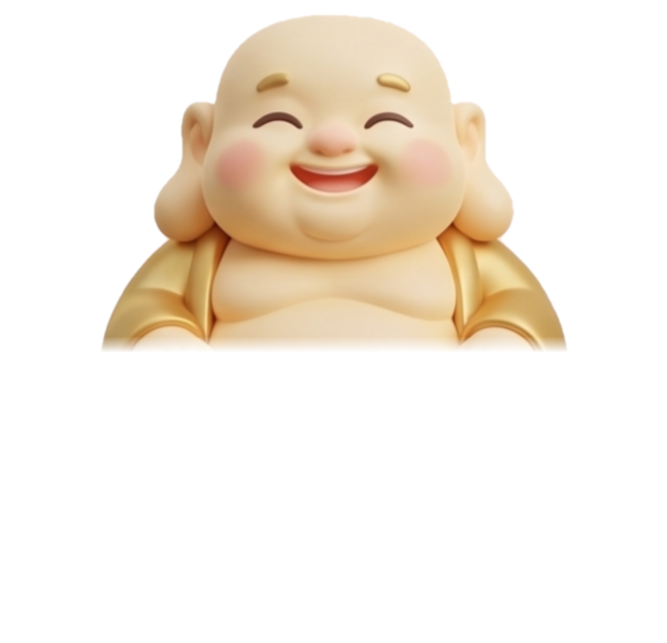
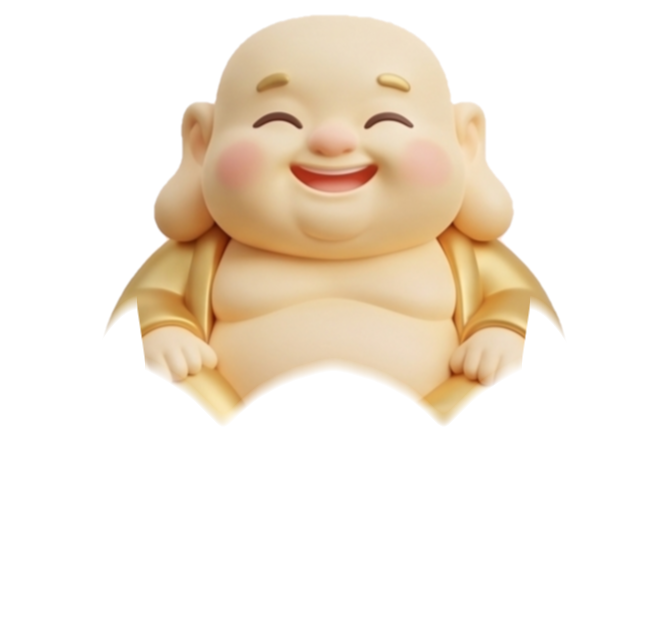
자르는 선도 꽃잎선이어야 한다 · 쌀 더 작게
형: 「포대승 저 부분 없애고 자연스럽게 해달라고」

가로 한 줄로 잘랐더니 옆구리에 **네모난 귀퉁이**가 남았다(형이 동그라미
친 자리). 그릇은 U 자인데 자르는 선만 직선이었으니 당연하다.
칸(column)마다 **그 칸의 꽃잎 꼭대기**를 찾아 그 밑으로만 지운다 —
꽃잎이 높이 선 옆구리는 많이 잘리고(어차피 꽃잎이 덮는다), 꽃잎 사이
골은 얕게 잘려 배가 그대로 보인다. 자른 선이 곧 꽃잎선이다.
톱니는 이웃 아홉 칸 평균으로 고르고, 꽃잎 속으로 10px 들어가 자른 뒤
14px 풀어 준다.

· 쌀 54 → 42px (형: 「쌀 크기 더 줄이고」)

Changed region(s): [[0.1499, 0.4666, 0.8696, 0.6843]]

diff --git a/src/app/hip.css b/src/app/hip.css
@@ -7083,7 +7083,7 @@ html[data-theme="light"] {
   /* 갈래마다 키가 다르다 — 형: 「초 크기 더 키우고, 쌀·향초는 줄이고.
      쌀 크게 확 줄여」. 실제로도 초는 길고 쌀그릇은 납작하다 */
   .hip-hall-altar .hip-gong[data-kind="cho"] .hip-gong-body { height: 124px; }
-  .hip-hall-altar .hip-gong[data-kind="ssal"] .hip-gong-body { height: 54px; }
+  .hip-hall-altar .hip-gong[data-kind="ssal"] .hip-gong-body { height: 42px; }
   .hip-hall-altar .hip-censer .hip-gong-body { height: 86px; }
   .hip-hall-altar { gap: 6px 10px; }
 }
